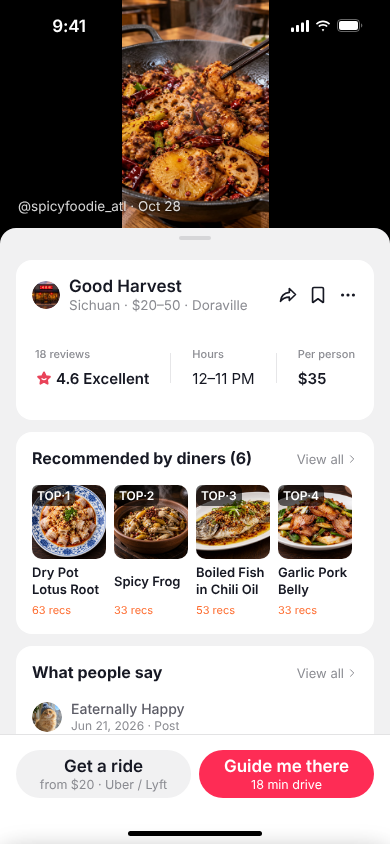
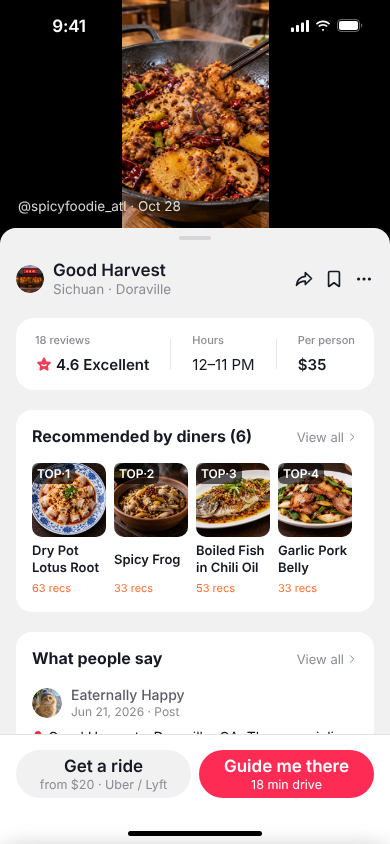
Half sheet: header on sheet bg, stats capsule as its own card, 20px rhythm, subtitle without price (Figma B)
Claude-Session: https://claude.ai/code/session_01Q6z36aYFBjH3xCc6Ygpjkp

diff --git a/index.html b/index.html
@@ -73,7 +73,7 @@
         <section class="sec" id="sec-overview">
           <div class="place-head">
             <img class="avatar28" src="img/figma/8cb31.png" alt="">
-            <div class="name"><b>Good Harvest</b><span>Sichuan · $20–50 · Doraville</span></div>
+            <div class="name"><b>Good Harvest</b><span><span class="half-only">Sichuan · Doraville</span><span class="full-only">Sichuan · $20–50 · Doraville</span></span></div>
             <div class="head-actions"><span class="ic dark" data-i="share"></span><span class="ic dark" data-i="bookmark"></span><span class="ic dark" data-i="more"></span></div>
           </div>
           <div class="stats-capsule half-only"><button data-act="reviews"><small>18 reviews</small><b><span class="ic heart" data-i="star"></span>4.6 Excellent</b></button><i></i><button data-act="demo"><small>Hours</small><b class="reg">12–11 PM</b></button><i></i><button data-act="demo"><small>Per person</small><b>$35</b></button></div>

diff --git a/styles.css b/styles.css
@@ -408,3 +408,11 @@ body.mouse #phone,body.mouse #phone *{cursor:none!important}
 .screen:not(.on){pointer-events:none}.screen.on{pointer-events:auto}
 @media(prefers-reduced-motion:reduce){html{scroll-behavior:auto}.category-chips button{transition:none}}
 .stats-capsule b{display:flex;align-items:center;gap:3px}.stats-capsule .heart svg{width:18px;height:18px}.nearby-row p svg{width:12px;height:12px;display:inline;vertical-align:-2px}
+
+/* half sheet: header sits on the grey sheet, capsule is its own card (Figma B 140:4787) */
+#place:not(.full) #sec-overview{background:transparent;padding:0;margin-bottom:20px;border-radius:0}
+#place:not(.full) .stats-capsule{margin-top:20px}
+#place:not(.full) #sec-dishes{margin-bottom:20px}
+#place:not(.full) .sheet-scroll{padding-top:8px}
+#place:not(.full) .grabber{margin-bottom:20px}
+.name span .full-only{display:none}#place.full .name span .half-only{display:none}#place.full .name span .full-only{display:inline}
